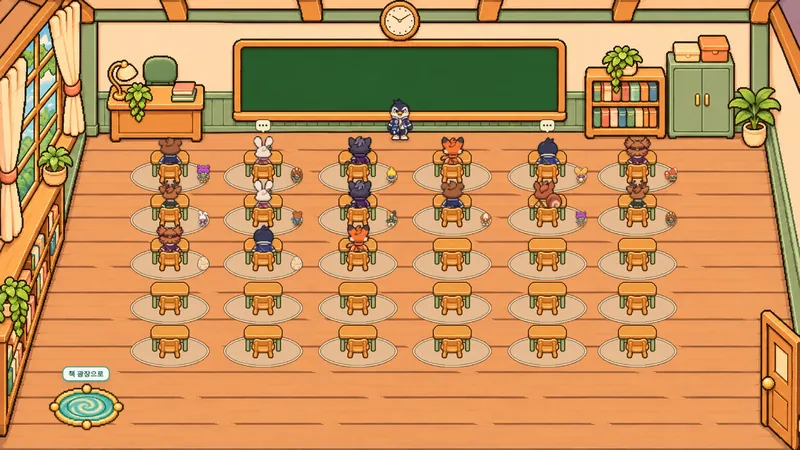
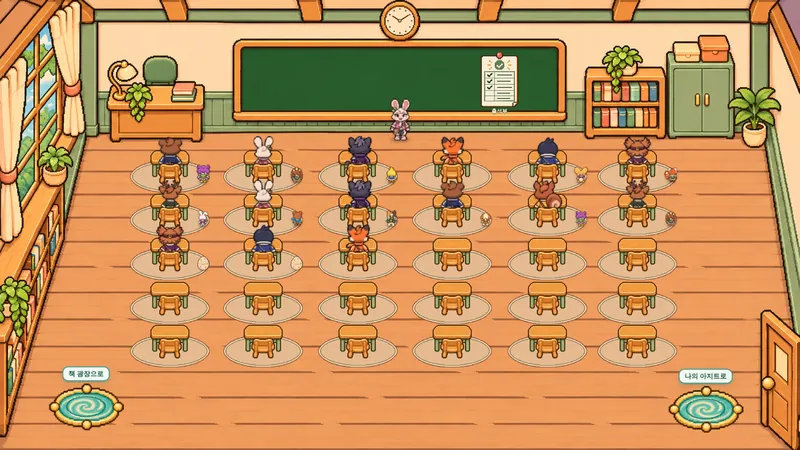
대문 그림 다시 찍기: 책 광장 · 교실을 지금 모습으로
- 책 광장: 왼쪽 문이 사라지고 오른쪽 위에 '나의 아지트로' 포털이 생긴 모습.
  김민준을 분수 앞에 세워 두고 여러 장 찍어 친구들이 분수 둘레에 모인 장을 고름.
- 교실: 칠판 오른쪽 출석부 · 오른쪽 아래 '나의 아지트로' 포털이 생긴 모습.
- 개인 아지트는 새로 찍어도 픽셀까지 같아 그대로 둠.
- 교실 대체 글에 출석부, README에 다시 찍은 때와 장면 고르는 법.

Claude-Session: https://claude.ai/code/session_01C8MEnwKbSQD7jTHwr2vygZ

diff --git a/lib/landingScenes.js b/lib/landingScenes.js
@@ -19,7 +19,7 @@ export const LANDING_SCENES = Object.freeze([
   Object.freeze({
     key: "classroom", name: "교실", width: 1440, height: 810,
     desc: "내 책상에 앉으면 선생님이 칠판 앞에서 출석을 확인해요",
-    alt: "교실 — 칠판 앞에 선생님 캐릭터가 서 있고, 학생 캐릭터 열다섯 명이 펫을 곁에 두고 책상에 앉아 있는 장면",
+    alt: "교실 — 출석부가 붙은 칠판 앞에 선생님 캐릭터가 서 있고, 학생 캐릭터 열다섯 명이 펫을 곁에 두고 책상에 앉아 있는 장면",
   }),
   Object.freeze({
     key: "hideout", name: "개인 아지트", width: 1440, height: 954,

diff --git a/public/landing/README.md b/public/landing/README.md
@@ -2,10 +2,11 @@
 
 대문(첫 화면 `/`)은 화면을 넷으로 나눕니다(선생님 요청 · 2026년 11월). **1분면(오른쪽 위)** 은 지금까지의 대문(상단 바 · 머리 제목 · 흰 카드 — `public/landing-reading.webp`)을 줄여 담은 칸이고, 나머지 세 칸에 이 폴더의 활동 장면이 섭니다 — **2분면(왼쪽 위) 책 광장 · 3분면(왼쪽 아래) 교실 · 4분면(오른쪽 아래) 개인 아지트**. 목록(이름 · 한 줄 설명 · 대체 글 · 크기)은 `lib/landingScenes.js`, 배치는 `app/styles/01-base-landing-footer.css`의 '대문'입니다.
 
-- `plaza.webp` · `plaza-800.webp` — 책 광장(1440 × 810 · 800 × 450). 분수 둘레에서 가상 친구 일곱이 펫과 거닐고, 둘은 이야기 중(머리 위 말풍선)이며, 가판대 · 책꽂이에 친구들의 책이 놓인 장면.
-- `classroom.webp` · `classroom-800.webp` — 교실(1440 × 810 · 800 × 450). 선생님이 칠판 앞에 서고, 학생 열다섯이 펫을 곁에 두고 제자리에 앉은 장면.
+- `plaza.webp` · `plaza-800.webp` — 책 광장(1440 × 810 · 800 × 450). 분수 둘레에서 가상 친구 일곱이 펫과 거닐고, 둘은 이야기 중(머리 위 말풍선)이며, 가판대 · 책꽂이에 친구들의 책이 놓인 장면. 왼쪽 아래에 '교실로' · 오른쪽 위에 '나의 아지트로' 포털이 섭니다(광장 왼쪽 문은 없음).
+- `classroom.webp` · `classroom-800.webp` — 교실(1440 × 810 · 800 × 450). 선생님이 칠판 앞에 서고(칠판 오른쪽에 출석부), 학생 열다섯이 펫을 곁에 두고 제자리에 앉은 장면. 왼쪽 아래 '책 광장으로' · 오른쪽 아래 '나의 아지트로' 포털.
 - `hideout.webp` · `hideout-800.webp` — 개인 아지트(1440 × 954 · 800 × 530). 숲속 소품으로 꾸민 방에 학생 캐릭터가 서고 펫이 방석에서 쉬는 장면.
-- 그림마다 **두 벌**입니다 — 화면이 칸 폭에 맞는 쪽만 내려받습니다(`srcset` · 1440 × 900 화면의 한 칸은 800px 쪽). 큰 그림 약 80~160KiB, 작은 그림 약 40~70KiB(WebP 품질 80).
+- 그림마다 **두 벌**입니다 — 화면이 칸 폭에 맞는 쪽만 내려받습니다(`srcset` · 1440 × 900 화면의 한 칸은 800px 쪽). 큰 그림 약 80~165KiB, 작은 그림 약 40~70KiB(WebP 품질 80).
+- **2026년 11월에 책 광장 · 교실을 다시 찍었습니다** — 광장 왼쪽 문이 사라지고 '나의 아지트로' 포털 · 교실 출석부가 생긴 뒤의 모습. 아지트는 그대로라(새로 찍어도 픽셀까지 같음) 그 전 그림입니다.
 - **실제 학생의 기록이 아닙니다** — 모두 체험반(데모 모드)의 가상 학생이고, 캐릭터 위 이름표 · 책상 이름표는 가리고 찍었습니다.
 
 ## 다시 찍는 법
@@ -16,7 +17,7 @@
 2. 선생님으로 '관리자 설정'에서 **책 봄 성장 기능 → 책 광장(되묻는 창의 '켜기') → 교실 → 개인 아지트** 차례로 켭니다(선생님의 모든 반에 한 값이라 이 차례가 아니면 스위치가 잠겨 있습니다).
 3. 무대의 이름표 · 머리말 · 단추 · 안내를 가리는 CSS를 얹고 **무대 요소만** 찍습니다(Playwright `locator.screenshot`).
    가린 것: `.plaza-hud` · `.plaza-hint` · `.plaza-live` · `.plaza-act` · `.plaza-roll` · `.plaza-avatar-name` · `.plaza-desk-name` · `.plaza-talk-ring` · `.plaza-marker` · `.plaza-mark` · `.hub-root` · `.class-move-banner` · `.hideout-walk-help` · `.hideout-walk-marker` · `.hideout-resident-name` · `nextjs-portal`.
-   - **책 광장** — 학생(30101 김민준)으로 책 광장 탭을 엽니다. 창은 무대가 지도와 같은 크기(1672 × 941)가 되게 상단바 높이만큼 더해 1672 × 1022로 열고 `.plaza-stage`를 찍습니다. 가상 친구가 계속 걸어 다니므로 몇 장 찍어 고르세요.
+   - **책 광장** — 학생(30101 김민준)으로 책 광장 탭을 엽니다. 창은 무대가 지도와 같은 크기(1672 × 941)가 되게 상단바 높이만큼 더해 1672 × 1022로 열고 `.plaza-stage`를 찍습니다. 가상 친구가 계속 걸어 다니므로 몇 장 찍어 고르세요 — 김민준을 분수 왼쪽 아래(지도 (690, 610) — 무대가 지도와 1:1이라 그 자리를 누르면 걸어감)에 세워 두고 2.5초마다 스무 장쯤 찍으면, 친구들이 분수 둘레에 모인 장이 한두 장 나옵니다.
    - **교실** — 선생님으로 책 광장을 열고 **'모두 교실로'** → 10초 카운트다운 뒤 학생 모두가 제자리에 앉은 교실을 같은 크기로 찍습니다.
    - **개인 아지트** — 김민준(체험반에서 레벨이 가장 높은 6)의 방을 브라우저 저장소 `bookbom.reading.hideout.v2:bookbom_demo_student_01`에 `{ version: 2, revision: 1, layout }`(레벨 6까지 열리는 18가지 칸을 숲속 `-forest` 소품으로)으로 넣고, 교실의 **'나의 아지트로'** 포털로 들어가 `.hideout-scene`을 1.28배(원본 1536px 폭)로 찍습니다.
 4. 굽기 — `node scripts/prepare-landing-art.mjs <광장 PNG> <교실 PNG> <아지트 PNG>`(아지트는 무대의 둥근 모서리 · 테두리까지 찍혀 가장자리 12px을 걷습니다 — 다른 배율로 찍었으면 스크립트의 `trim`을 고치세요). 크기가 달라졌으면 `lib/landingScenes.js`의 `width` · `height`도 맞춥니다.
